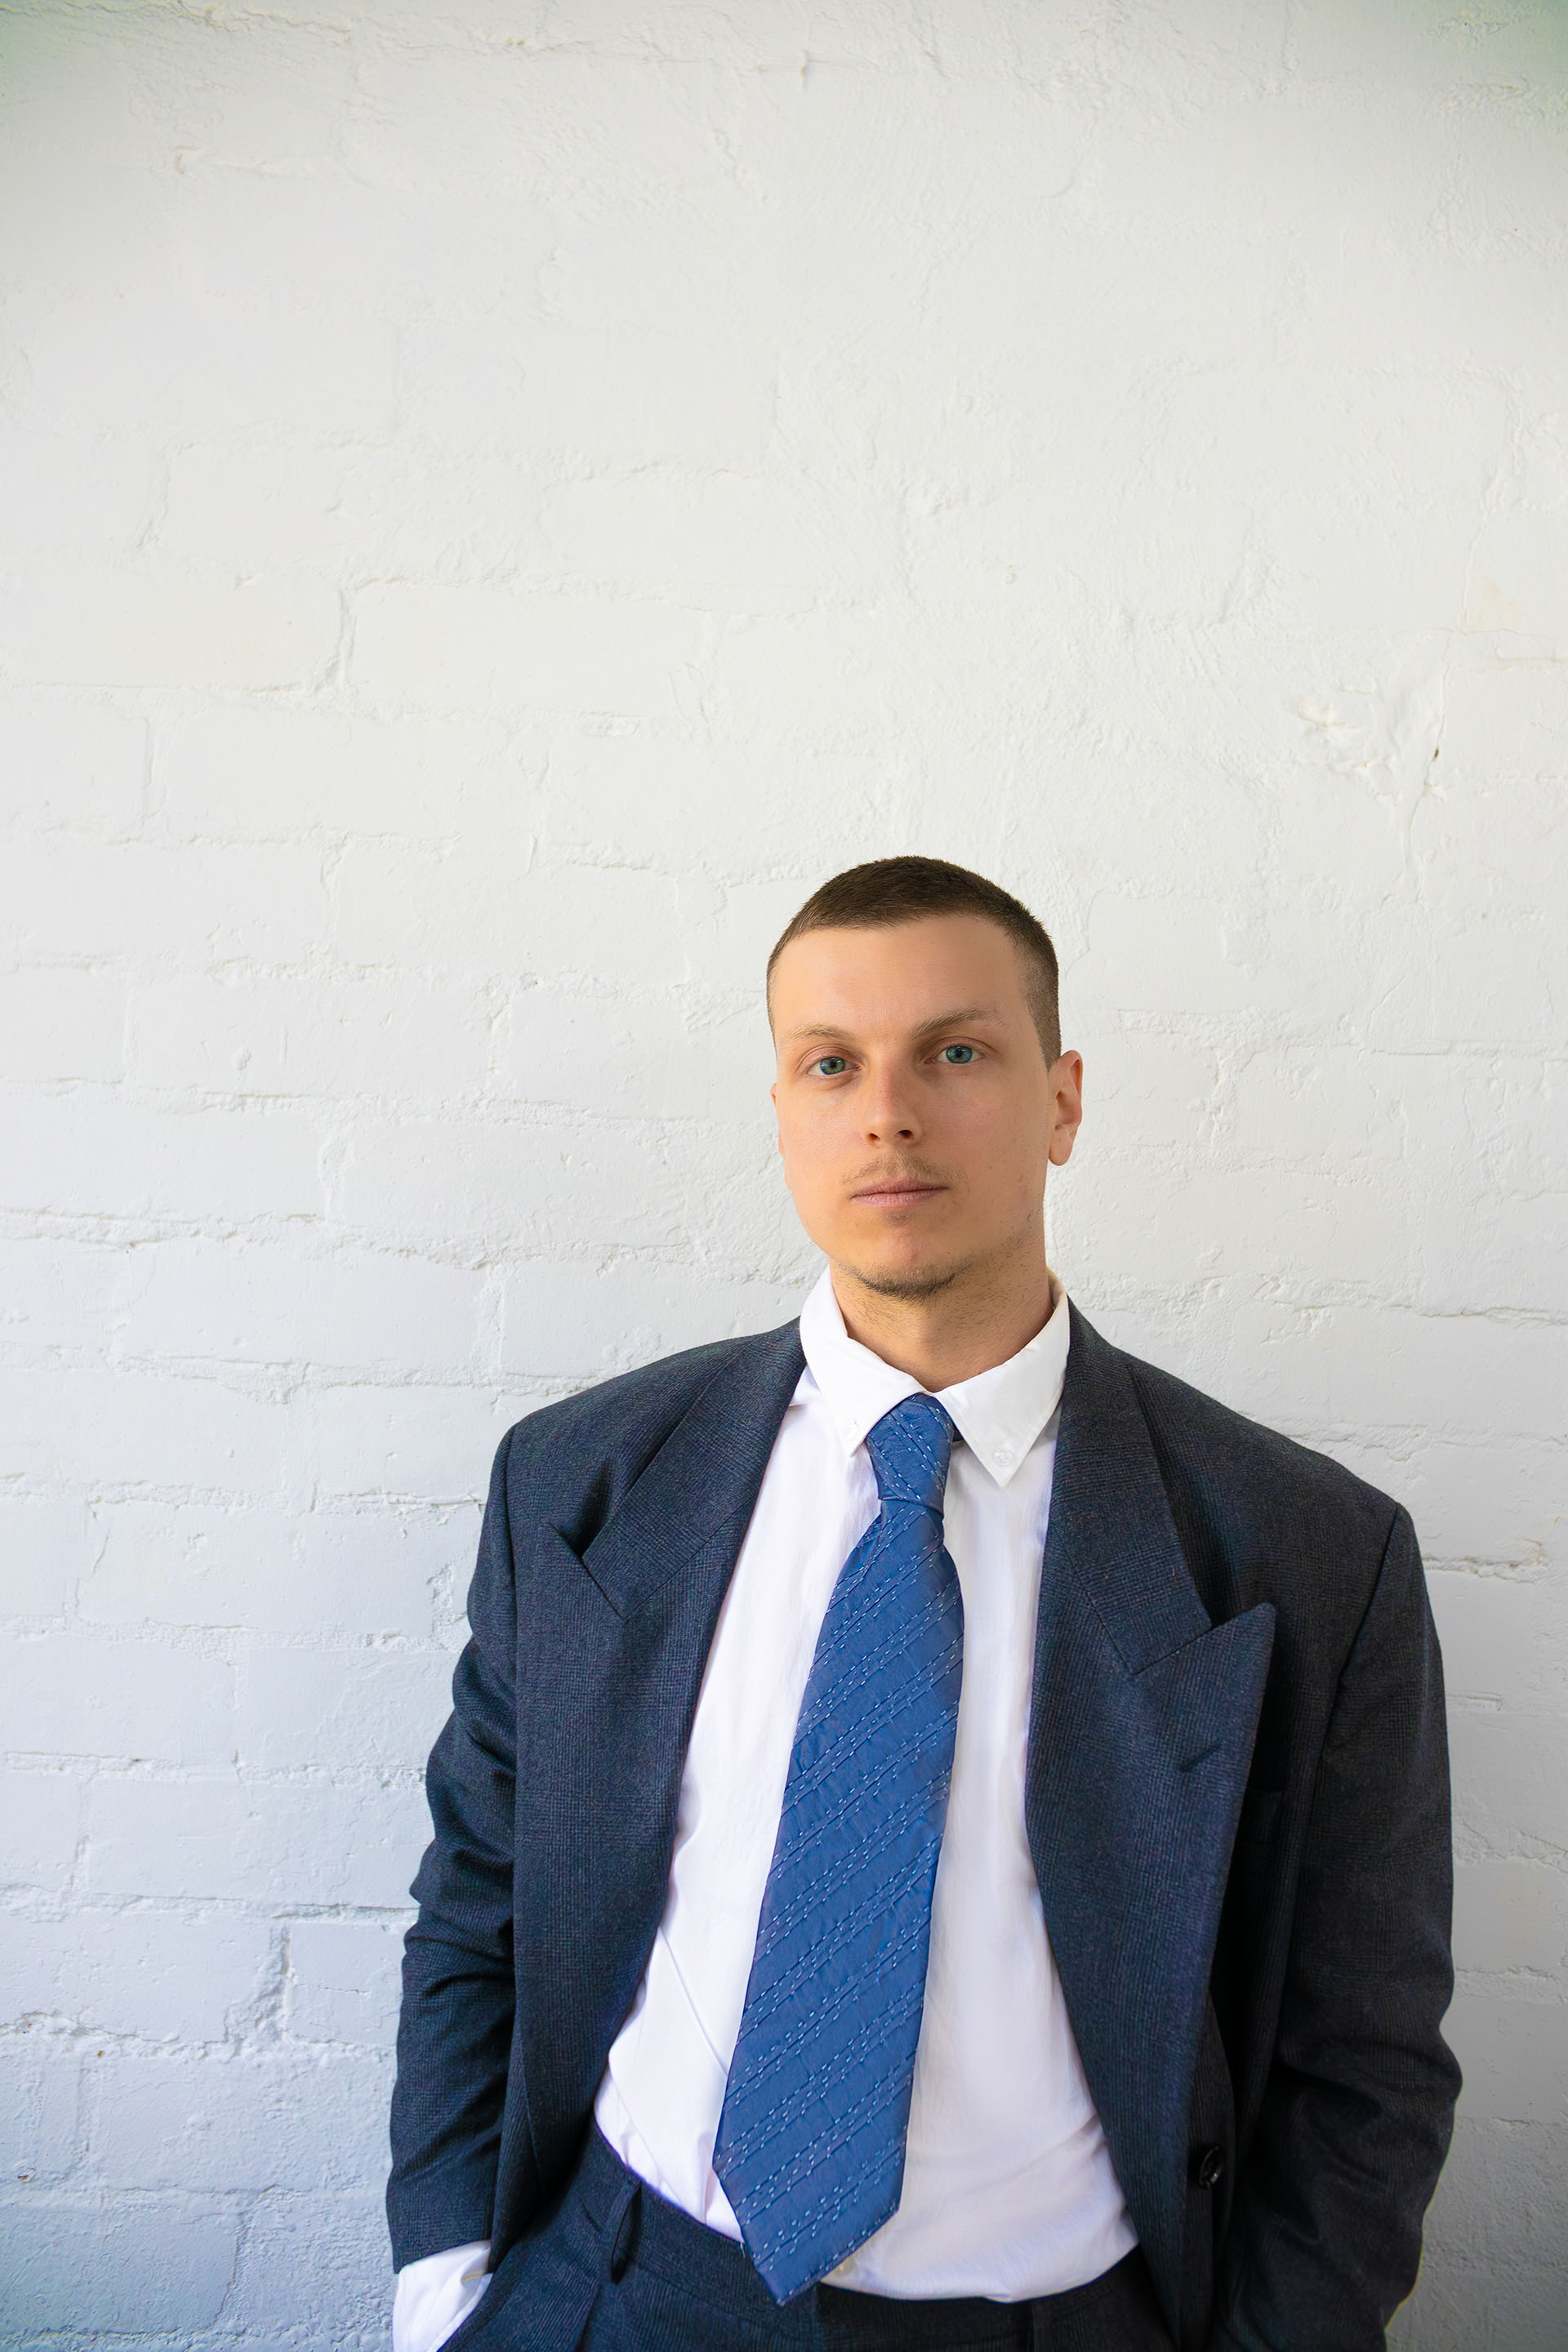
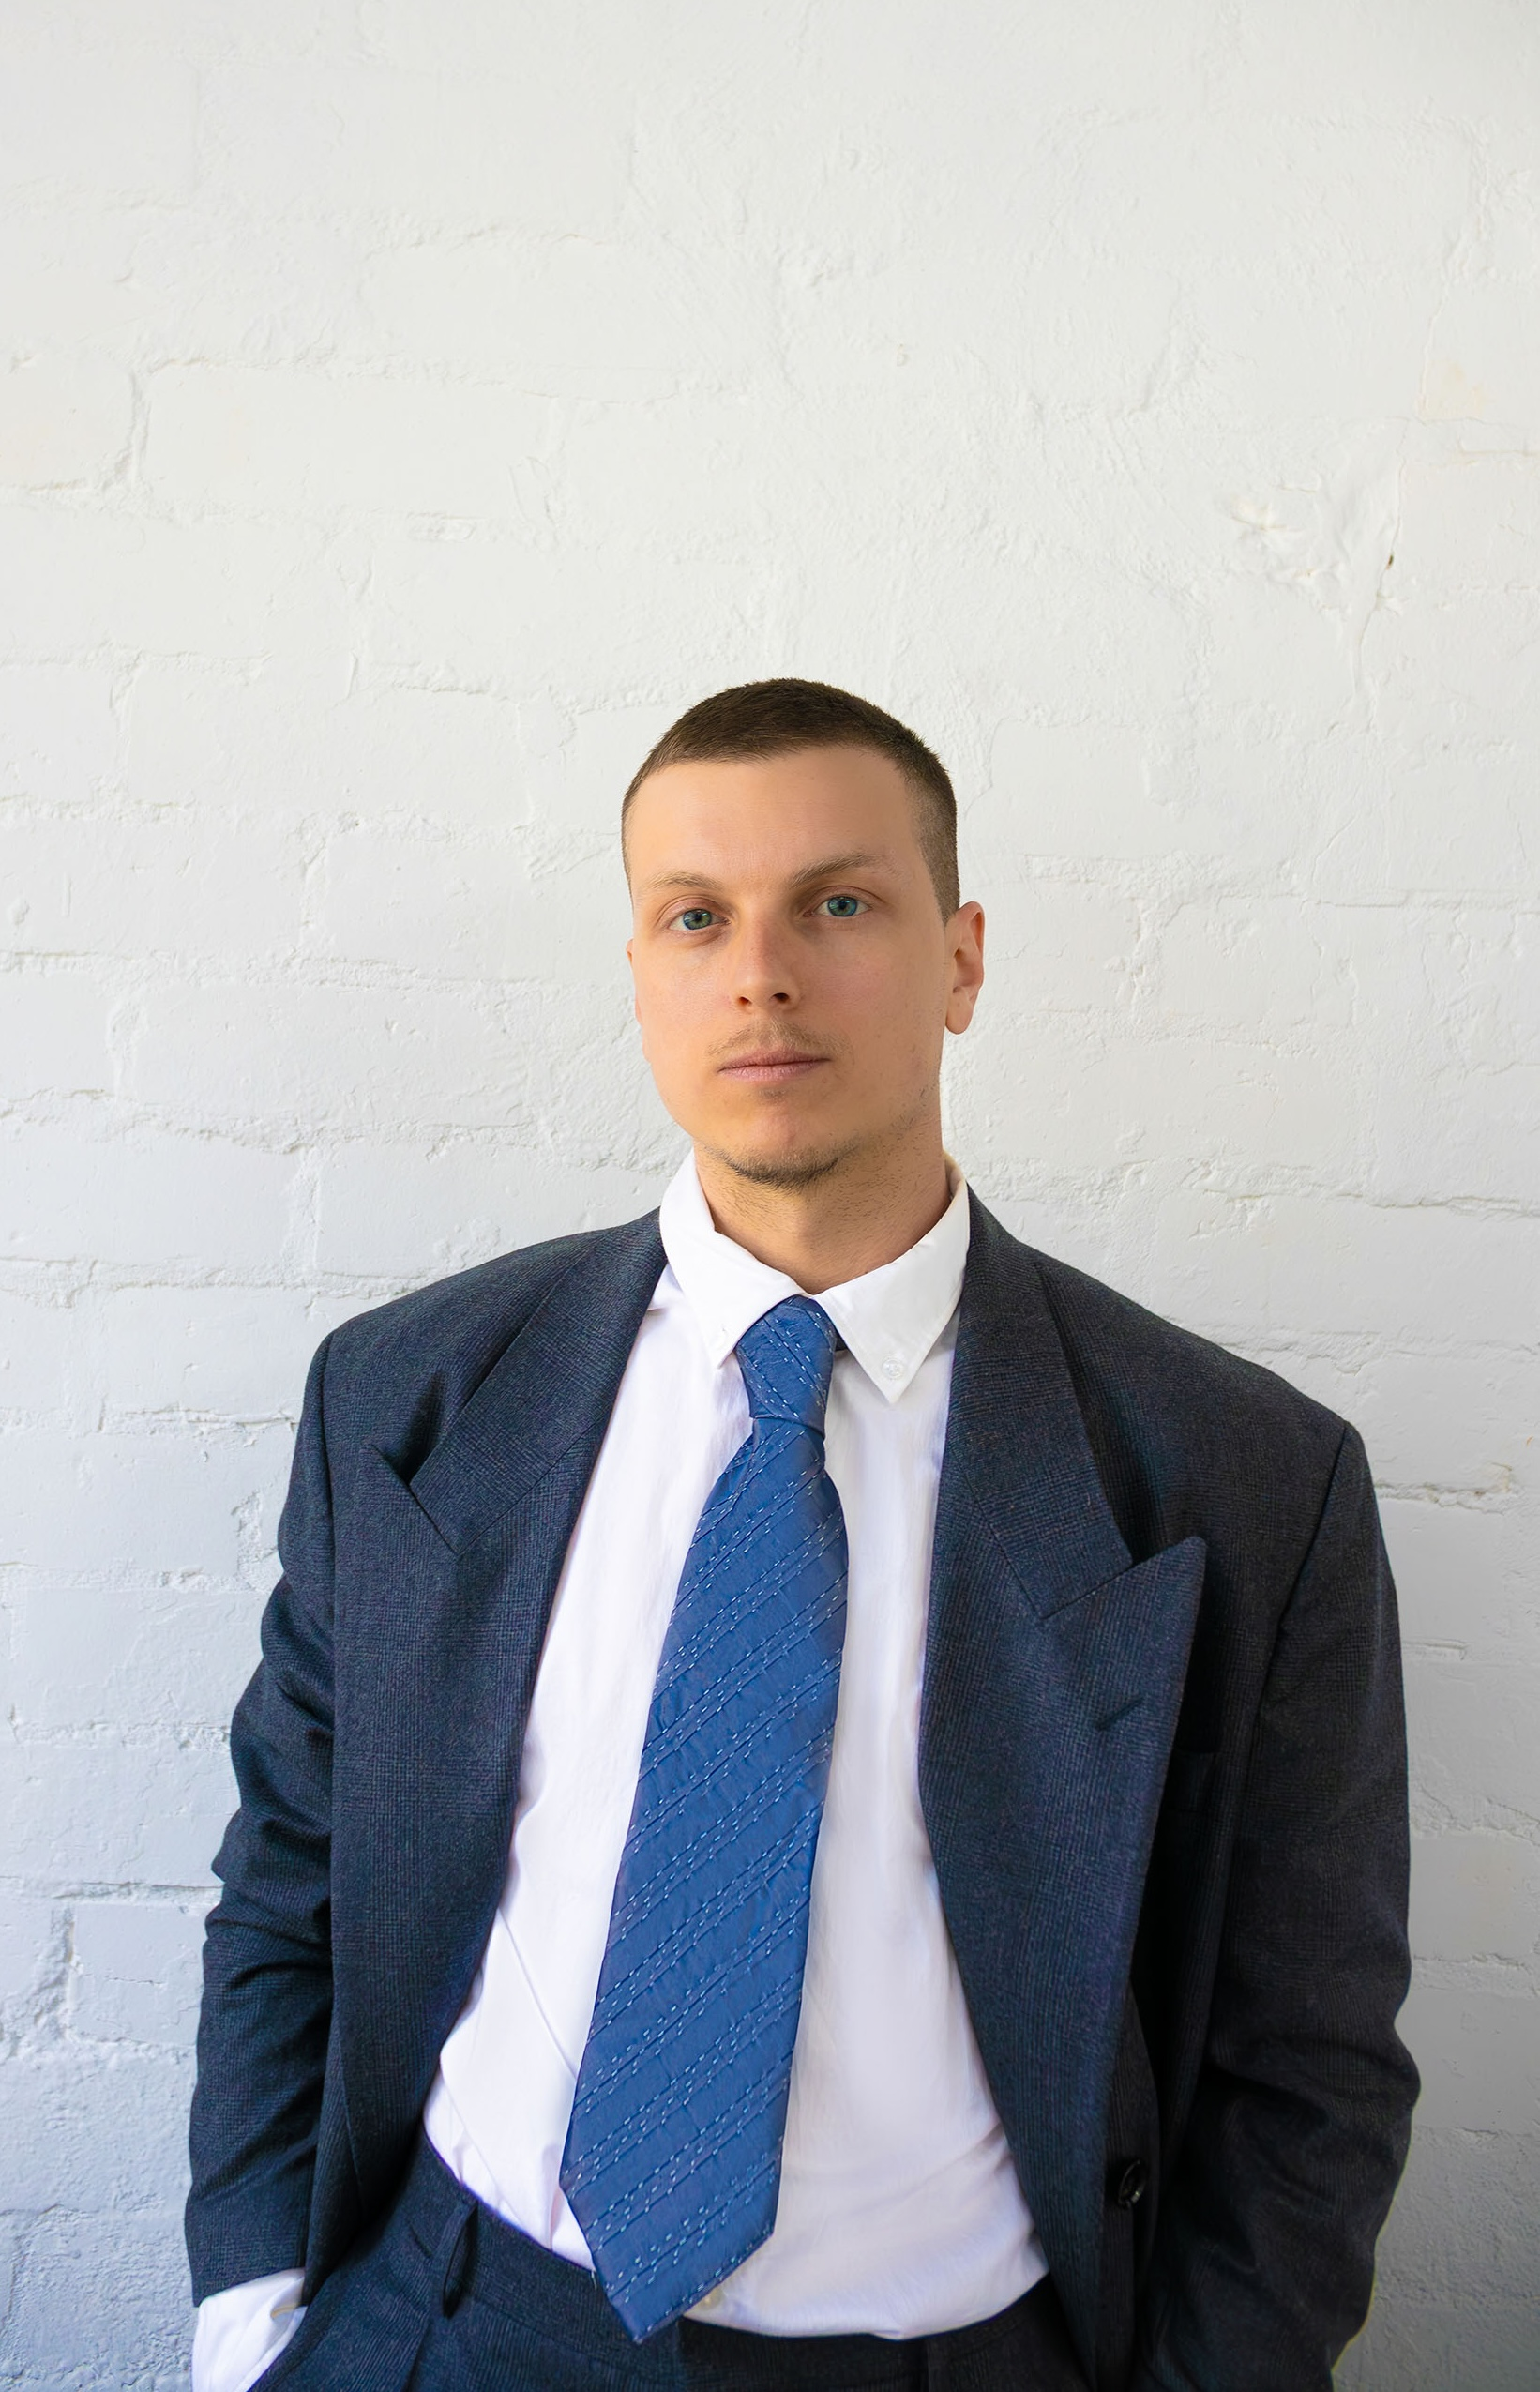
update team photos. play with hero button

diff --git a/src/app/page.js b/src/app/page.js
@@ -7,11 +7,13 @@ import StaggeredWords from "@/hooks/StaggeredWords";
 import dynamic from "next/dynamic";
 import ImpactStatsMobile from "@/components/home/ImpactStatsMobile";
 import ServicesRail from "@/components/services/ServicesRail";
+import HeroButton from "@/components/ui/HeroButton";
+import TeamBlock from "@/components/about/TeamBlock";
 
 const Scene = dynamic(() => import("@/components/three/Scene"), { ssr: false });
 const ProjectRail = dynamic(
   () => import("@/components/sanity-blocks/ProjectRail"),
-  { suspense: true }
+  { suspense: true },
 );
 const ImpactStats = dynamic(() => import("@/components/home/ImpactStats"), {
   suspense: true,
@@ -56,41 +58,40 @@ function Splash({ innerRef }) {
   }, [inView]);
 
   return (
-    // <InView once={true} margin="-60% 0px -60% 0px">
-    <section
-      ref={innerRef}
-      id="home-scene"
-      data-marker="HELLO"
-      className="fade-in relative h-[90vh] w-full border-b pb-36 mb-12 border-[var(--mesm-grey-dk)] overflow-hidden"
-    >
-      {/* Mobile: video */}
-      <div className="md:hidden absolute inset-0 width-3/4 flex items-center justify-center h-[80vh]">
-        <video
-          ref={videoRef}
-          className="h-auto w-full object-cover"
-          autoPlay
-          muted
-          loop
-          playsInline
-        >
-          {/* Provide both for best compatibility (webm first if you have it) */}
+    <InView once={true}>
+      <section
+        ref={innerRef}
+        id="home-scene"
+        className="fade-in relative h-[80vh] w-full overflow-hidden"
+      >
+        {/* Mobile: video */}
+        <div className="md:hidden absolute inset-0 width-3/4 flex items-center justify-center h-[80vh]">
+          <video
+            ref={videoRef}
+            className="h-auto w-full object-cover"
+            autoPlay
+            muted
+            loop
+            playsInline
+          >
+            {/* Provide both for best compatibility (webm first if you have it) */}
 
-          <source src="/assets/mesm_logo_video.mp4" type="video/mp4" />
-        </video>
-        {/* Optional subtle overlay to match your scene look */}
-        <div className="absolute inset-0 bg-black/20 pointer-events-none" />
-      </div>
+            <source src="/assets/mesm_logo_video.mp4" type="video/mp4" />
+          </video>
+          {/* Optional subtle overlay to match your scene look */}
+          <div className="absolute inset-0 bg-black/20 pointer-events-none" />
+        </div>
 
-      {/* Tablet/Desktop: 3D scene */}
-      <div className="hidden md:block absolute inset-0">
-        <Scene
-          onLoaded={() => {
-            /* keep if you still use the notifier */
-          }}
-        />
-      </div>
-    </section>
-    // </InView>
+        {/* Tablet/Desktop: 3D scene */}
+        <div className="hidden md:block absolute inset-0">
+          <Scene
+            onLoaded={() => {
+              /* keep if you still use the notifier */
+            }}
+          />
+        </div>
+      </section>
+    </InView>
   );
 }
 
@@ -98,17 +99,18 @@ function Statement({ innerRef }) {
   return (
     <section
       ref={innerRef}
-      data-marker="WHAT WE DO"
-      className="min-h-[50vh] flex items-start justify-center text-white"
+      className="min-h-[98vh] flex items-center justify-center text-white  border-b pb-36 mb-12 border-[var(--mesm-grey-dk)] "
     >
       <div>
         <InView>
           <StaggeredWords
+            triggerOnLoad={true}
             as="h1"
             text="Mesmerise crafts brand, web, and content experiences that look sexy, and convert."
-            className="page-title-large"
-            margin="-40% 0px"
+            className="page-title-large pb-6"
+            // margin="-40% 0px"
           />
+          <HeroButton href="/connect">Let's connect</HeroButton>
         </InView>
       </div>
     </section>
@@ -117,10 +119,7 @@ function Statement({ innerRef }) {
 
 function SecondaryStatement() {
   return (
-    <section
-      data-marker="WHAT WE BRING"
-      className="min-h-[50vh] flex items-start justify-center text-white"
-    >
+    <section className="min-h-[50vh] flex items-start justify-center text-white">
       <div>
         <StaggeredWords
           as="p"
@@ -135,10 +134,7 @@ function SecondaryStatement() {
 
 function ProjectsRow() {
   return (
-    <section
-      data-marker="How it looks"
-      className="relative py-12 md:py-16 text-white"
-    >
+    <section className="relative py-12 md:py-16 text-white">
       <InView>
         <ProjectRail tag="highlight" />
       </InView>
@@ -158,8 +154,9 @@ export default function HomePage() {
         dark ? "bg-black" : "bg-black",
       ].join(" ")}
     >
-      <Splash innerRef={splashRef} />
       <Statement innerRef={section2Ref} />
+      <Splash innerRef={splashRef} />
+
       <ProjectsRow />
       <SecondaryStatement />
       <div className="md:hidden">
@@ -168,6 +165,44 @@ export default function HomePage() {
       <div className="md:block  hidden">
         <ImpactStats />
       </div>
+      <TeamBlock
+        heading="Our team"
+        team={[
+          {
+            id: "1",
+            name: "Petar Petrović",
+            title: "Founder",
+            photo: {
+              url: "/assets/team/Petar.jpg",
+              alt: "Petar Petrovic portrait",
+            },
+          },
+          {
+            id: "2",
+            name: "Matilda Sutherland",
+            title: "Design & Development",
+            photo: {
+              url: "/assets/team/Matilda.jpg",
+            },
+          },
+          {
+            id: "3",
+            name: "Simba Dhaliwal",
+            title: "Business Development",
+            photo: {
+              url: "/assets/team/Simba.jpg",
+            },
+          },
+          {
+            id: "4",
+            name: "Nicole Uren",
+            title: "Digital Marketing Strategist",
+            photo: {
+              url: "/assets/team/Nicole.jpg",
+            },
+          },
+        ]}
+      />
 
       <CollabModel />
       <ServicesRail />

diff --git a/src/components/ui/HeroButton.jsx b/src/components/ui/HeroButton.jsx
@@ -1,0 +1,76 @@
+"use client";
+
+import React, { useRef, useState } from "react";
+import { motion, useMotionValue, useSpring, useTransform } from "framer-motion";
+
+export default function HeroButton({
+  href = "#",
+  children,
+  extraClass = "",
+  ...props
+}) {
+  const containerRef = useRef(null);
+  const [isHovered, setIsHovered] = useState(false);
+
+  // 1. Motion values for raw mouse position
+  const mouseX = useMotionValue(0);
+  const mouseY = useMotionValue(0);
+
+  // 2. Spring physics for the "Inertia" effect
+  // Adjust stiffness (speed) and damping (bounce) to taste
+  const smoothX = useSpring(mouseX, { damping: 20, stiffness: 150 });
+  const smoothY = useSpring(mouseY, { damping: 20, stiffness: 150 });
+
+  // 3. Map the smooth values directly into your radial gradient string
+  const background = useTransform(
+    [smoothX, smoothY],
+    ([x, y]) => `radial-gradient(
+      circle 60px at ${x}px ${y}px, 
+      var(--mesm-yellow) 0%, 
+      var(--mesm-yellow) 90%, 
+      transparent 91%
+    )`,
+  );
+
+  const handleMouseMove = (e) => {
+    if (!containerRef.current) return;
+    const rect = containerRef.current.getBoundingClientRect();
+    mouseX.set(e.clientX - rect.left);
+    mouseY.set(e.clientY - rect.top);
+  };
+
+  const baseStyles =
+    "inline-flex items-center justify-center select-none border whitespace-nowrap duration-150 ease-out rounded-2xl hover:rounded-xl";
+
+  return (
+    <a
+      href={href}
+      ref={containerRef}
+      onMouseMove={handleMouseMove}
+      onMouseEnter={() => setIsHovered(true)}
+      onMouseLeave={() => setIsHovered(false)}
+      className={`
+        ${baseStyles}
+        relative overflow-hidden
+        w-full h-[48px] md:w-fit px-6 py-1
+        bg-[var(--mesm-yellow)]  
+        text-[var(--background)] tracking-wide 
+        hover:bg-[var(--mesm-grey-dk)]/40 hover:border-[var(--mesm-grey)]  transition-colors duration-250
+        ${extraClass}
+      `}
+      {...props}
+    >
+      {/* Text layer stays on top */}
+      <span className="relative z-10 pointer-events-none">{children}</span>
+
+      {/* The Animated Hard Blue Circle */}
+      <motion.div
+        className="absolute inset-0 pointer-events-none transition-opacity duration-50"
+        style={{
+          opacity: isHovered ? 1 : 0,
+          background,
+        }}
+      />
+    </a>
+  );
+}

diff --git a/src/app/work/[slug]/page.js b/src/app/work/[slug]/page.js
@@ -162,7 +162,7 @@ export default async function ProjectPage({ params }) {
         year: "numeric",
       })
     : "";
-  console.log("SERVICE TAGS (clean):", page.serviceTags);
+  // console.log("SERVICE TAGS (clean):", page.serviceTags);
   const tagArray = Array.isArray(page.serviceTags) ? page.serviceTags : [];
 
   return (

diff --git a/src/components/home/ImpactStats.jsx b/src/components/home/ImpactStats.jsx
@@ -108,7 +108,7 @@ function FloatingCard({ visible, x, y, index, body }) {
         <p className="p2 opacity-95">{body}</p>
       </div>
     </motion.div>,
-    document.body
+    document.body,
   );
 }
 